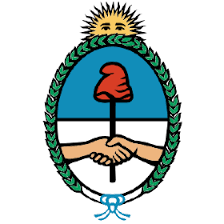
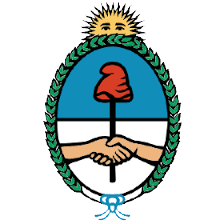
icono en taskbar

diff --git a/main.py b/main.py
@@ -1,8 +1,11 @@
 from PyQt5.QtWidgets import QApplication,QLabel,QPushButton
 from interfaz.mainGrafica import MainWindow
-import sys,pickle
+import sys,pickle,ctypes
 from Modulos.clases import Provincia,Municipio,Pais
 from Modulos.verificador import ids_municipios
+
+ctypes.windll.shell32.SetCurrentProcessExplicitAppUserModelID('bandaloschinos.paisdigital.v1')
+
 try:
     with open('archivo.pickle','rb') as arch:
         arg = pickle.load(arch)
